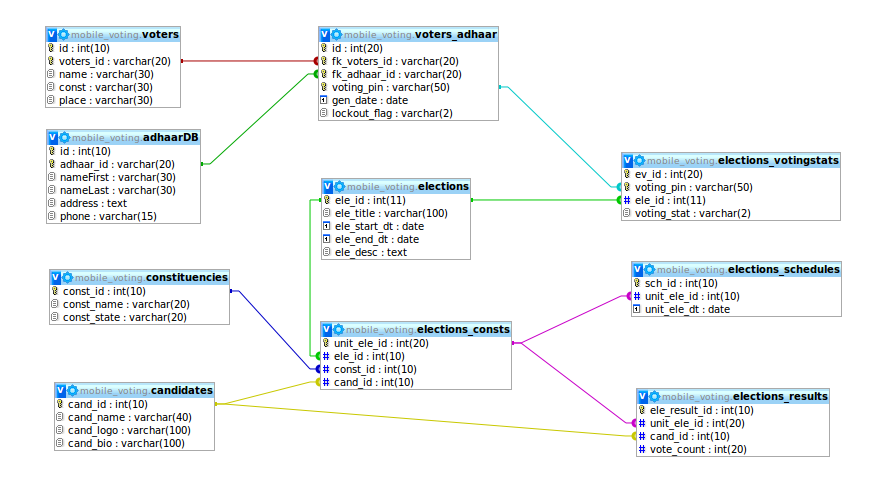
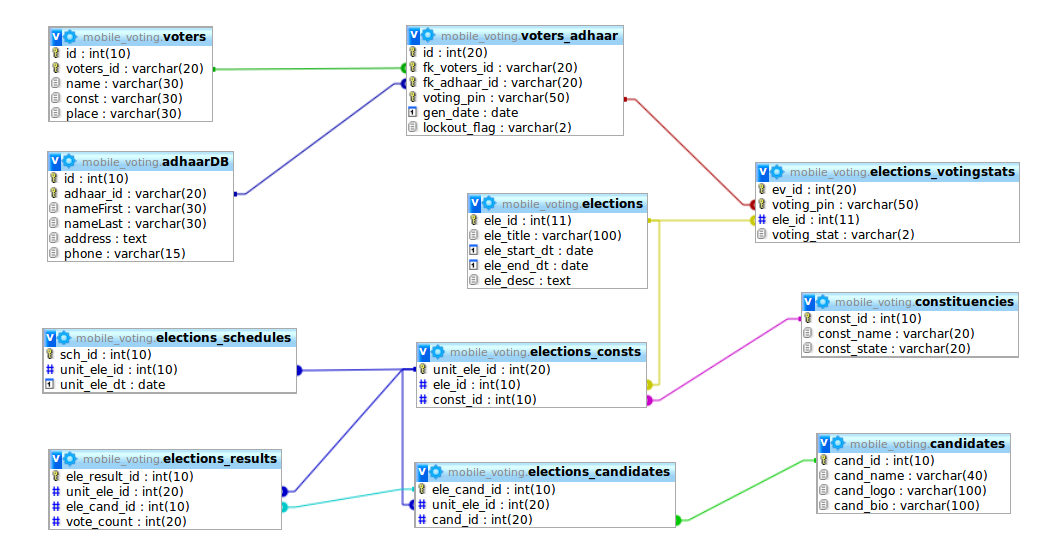
database design change reverted- going with separate column for the elections_candidates

diff --git a/src/main/java/com/hashin/project/dao/SQLConstants.java b/src/main/java/com/hashin/project/dao/SQLConstants.java
@@ -12,31 +12,31 @@ public class SQLConstants {
 	
 	public static String DELETE_ELECTION_BY_ID = "delete from user where user_id= ?";
 	
+	
 	public static String GET_ELECTIONS_BY_CONST_ID = " select ec.unit_ele_id, ec.ele_id, ec.const_id, "
-			+ "e.ele_title, e.ele_start_dt, e.ele_end_dt, e.ele_desc "
-			+ "from elections_consts ec left join elections e "
-			+ "on ec.ele_id=e.ele_id where ec.const_id= ?" ; 
-	
-	public static String INCREMENT_VOTECOUNT_BY_CANDIDATE_ID = "update elections_results "
-			+ "set vote_count = vote_count+1 "
-			+ "where cand_id = ? " ;
-			
-/*	public static String GET_CANDIDATE_DETAIL_BY_ID = "select a.cand_id, a.cand_name, a.cand_logo, a.cand_bio, " 
-			+ "d.const_name, d.const_state, " 
-			+ "e.ele_id, c.unit_ele_id, e.ele_title, e.ele_desc " 
-			+ "from candidates a , elections_candidates b, elections_consts c, constituencies d, elections e " 
-			+ "where a.cand_id = b.cand_id and b.unit_ele_id = c.unit_ele_id " 
-			+ "and c.const_id = d.const_id and e.ele_id = c.ele_id " 
-			+ "a.cand_id = ?";
-*/
-	
-	public static String GET_CANDIDATE_DEATAIL_BY_ID = "select a.cand_id, a.cand_name, a.cand_logo, a.cand_bio, " 
-			+ "c.const_name, c.const_state, "
-			+ "d.ele_id, b.unit_ele_id, d.ele_title, d.ele_desc "
-			+ "from candidates a, elections_consts b, constituencies c, elections d " 
-			+ "where a.cand_id = b.cand_id and b.const_id = c.const_id " 
-			+ "and b.ele_id = d.ele_id and a.cand_id = ? ";
-	
+		+ "e.ele_title, e.ele_start_dt, e.ele_end_dt, e.ele_desc "
+		+ "from elections_consts ec left join elections e "
+		+ "on ec.ele_id=e.ele_id where ec.const_id= ?" ; 
+
+        public static String GET_CANDIDATES_BY_UNIT_ELE_ID = " select ec.ele_cand_id, ec.cand_id, "
+        		+ "c.cand_name, c.cand_logo, c.cand_bio "
+        		+ "from elections_candidates ec join candidates c "
+        		+ "on ec.cand_id=c.cand_id where ec.unit_ele_id = ? ";
+        
+        public static String INCREMENT_VOTECOUNT_BY_CANDIDATE_ID = "update elections_results "
+        		+ "set vote_count = vote_count+1 "
+        		+ "where ele_cand_id = ( "
+        		+ 		"select ele_cand_id from elections_candidates where cand_id = ? "
+        		+ ")";
+        		
+        public static String GET_CANDIDATE_DETAIL_BY_ID = "select a.cand_id, a.cand_name, a.cand_logo, a.cand_bio, " 
+        		+ "d.const_name, d.const_state, " 
+        		+ "e.ele_id, c.unit_ele_id, e.ele_title, e.ele_desc " 
+        		+ "from candidates a , elections_candidates b, elections_consts c, constituencies d, elections e " 
+        		+ "where a.cand_id = b.cand_id and b.unit_ele_id = c.unit_ele_id " 
+        		+ "and c.const_id = d.const_id and e.ele_id = c.ele_id " 
+        		+ "a.cand_id = ?";
+
 	public static String GET_CANDIDATES_BY_NAME = "select c.cand_id, c.cand_name, c.cand_logo, c.cand_bio " 
 			+ "from candidates c join elections_consts e " 
 			+ "on c.cand_id = e.cand_id where c.cand_name like '%?%';"; 
@@ -44,13 +44,8 @@ public class SQLConstants {
 	public static String GET_CANDIDATES_BY_CONSTITUENCY_ID = "select c.cand_id, c.cand_name, c.cand_logo, c.cand_bio " 
 			+ "from candidates c join elections_consts e " 
 			+ "on c.cand_id = e.cand_id where e.const_id = ? "; 
-
-	public static String GET_CANDIDATES_BY_UNIT_ELE_ID = "select b.cand_id, b.cand_name, b.cand_logo, b.cand_bio " 
-			+ "from elections_consts a join candidates b " 
-			+ "on a.cand_id = b.cand_id " 
-			+ "where a.unit_ele_id = ? " ;
-
-	
+	public static String INSERT_CANDIDATE_IN_CANDIDATES = "insert into candidates (cand_name, cand_logo, cand_bio) " 
+			+ "values ( '?', '?', '?' )";
 	
 	
 	

diff --git a/src/main/java/com/hashin/project/dao/ElectionManagementDAOImpl.java b/src/main/java/com/hashin/project/dao/ElectionManagementDAOImpl.java
@@ -104,12 +104,7 @@ public class ElectionManagementDAOImpl implements ElectionManagementDAO {
 		return numRows;
 	}
 
-	@Override
-	public Boolean enrollNewCandidate(ElectionsCandidatesBean candidate)
-	{
-	    
-	    return null;
-	}
+	
 
 	@Override
 	public ElectionsCandidatesBean getCandidateInfoById(String candidateId)
@@ -139,5 +134,9 @@ public class ElectionManagementDAOImpl implements ElectionManagementDAO {
 				parameters, new ElectionsCandidatesRowMapper());
 	    return candidateList;
 	}
+	
+	
+	
+	
 
 }

diff --git a/src/main/java/com/hashin/project/dao/ElectionManagementDAO.java b/src/main/java/com/hashin/project/dao/ElectionManagementDAO.java
@@ -36,7 +36,7 @@ public interface ElectionManagementDAO {
 	
 	
 	
-	public Boolean enrollNewCandidate(ElectionsCandidatesBean candidate);
+	//public Boolean enrollNewCandidate(ElectionsCandidatesBean candidate);
 
 	public ElectionsCandidatesBean getCandidateInfoById(String candidateId);
 	
